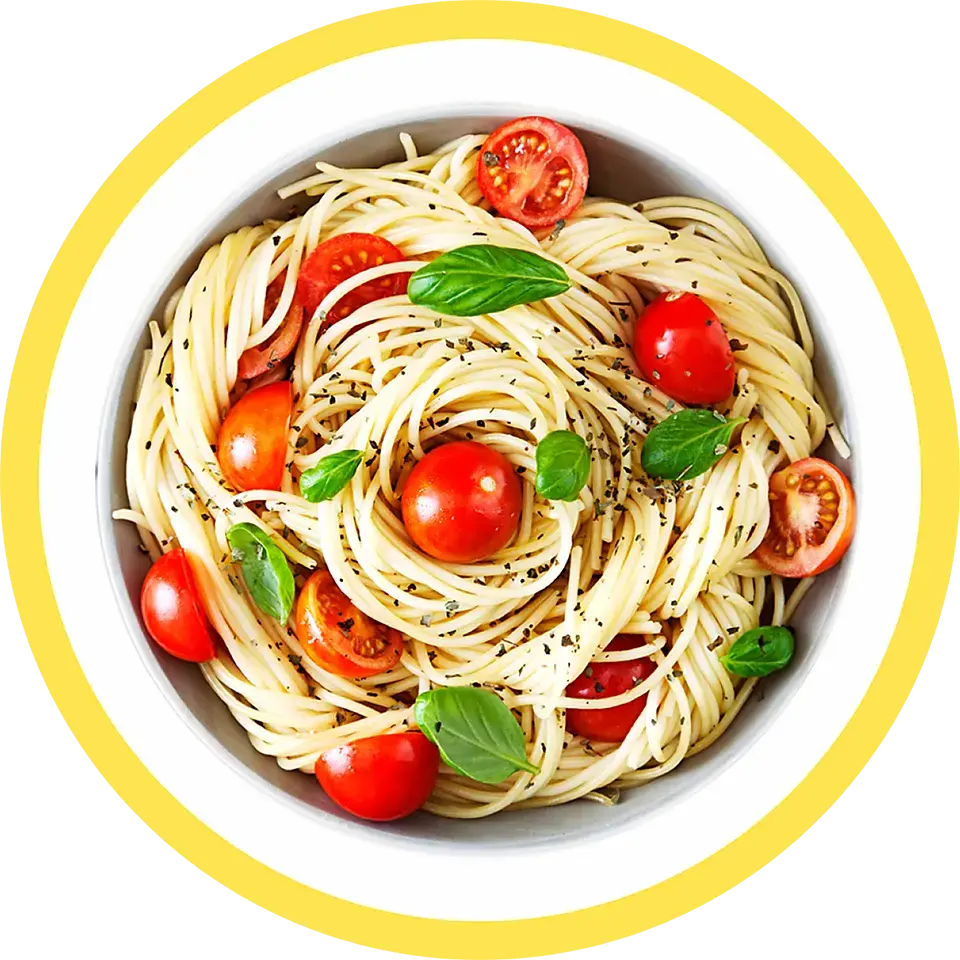
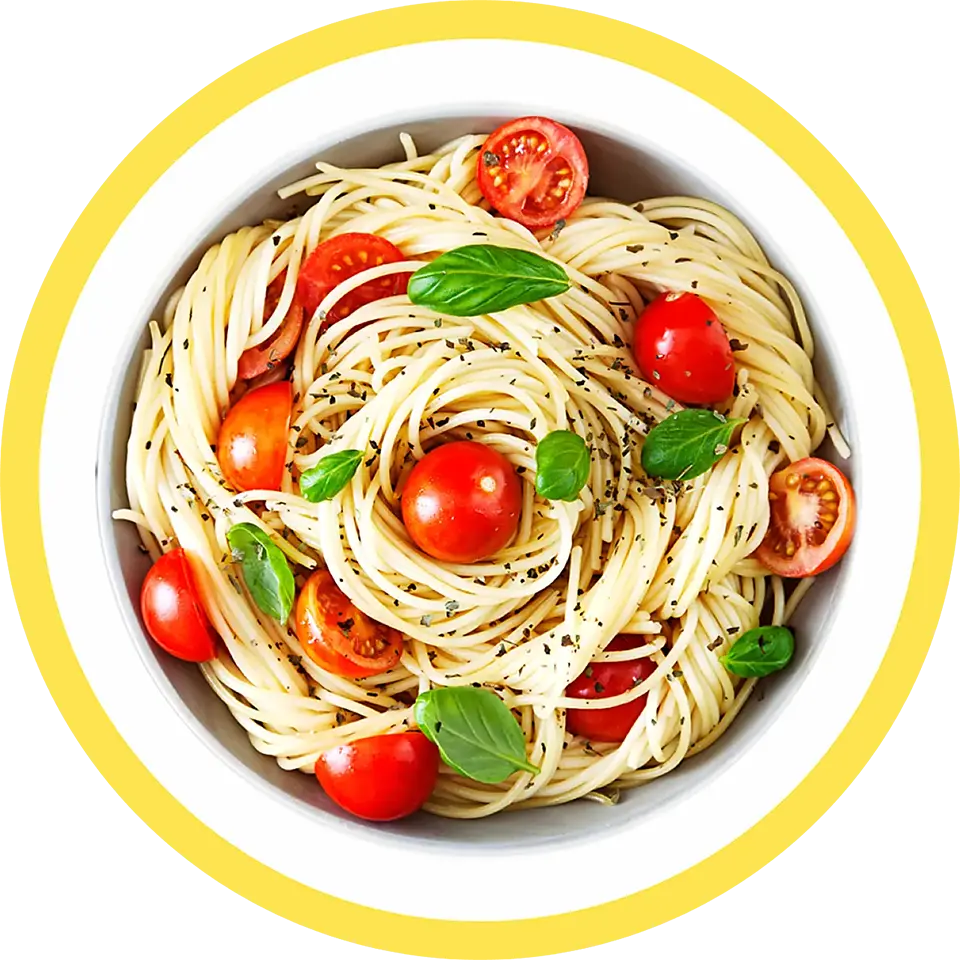
change file pasta

diff --git a/index.html b/index.html
@@ -197,7 +197,7 @@
                     srcset="
                       ./images/dishes/pasta-320.webp   320w,
                       ./images/dishes/pasta-640.webp   640w,
-                      ./images/dishes/gamburger-960.webp   960w,
+                      ./images/dishes/pasta-960.webp   960w,
                       ./images/dishes/pasta-1280.webp 1280w
                     "
                     type="image/webp"
